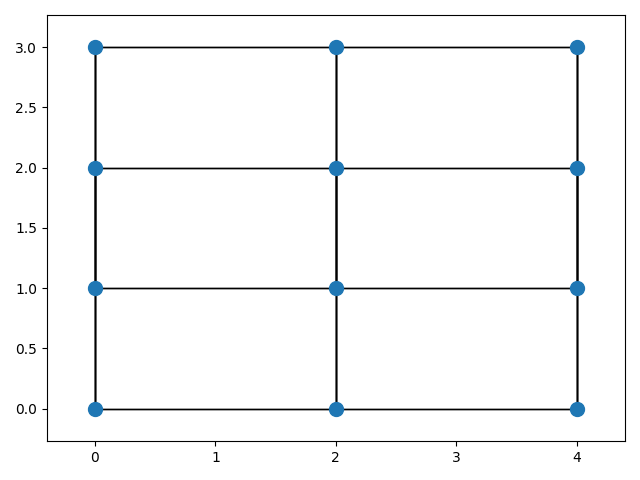
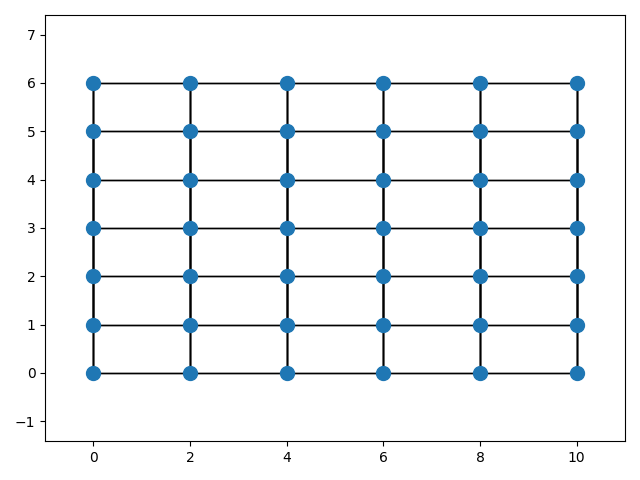
updated examples

diff --git a/examples/lattices.py b/examples/lattices.py
@@ -23,7 +23,7 @@ def plot_simple_rectangular():
     latt.add_atom()
     # Two distances are needed for all connections
     latt.add_connections(2)
-    latt.build((5, 3))
+    latt.build((10, 6))
 
     ax = latt.plot()
     fig = ax.get_figure()

diff --git a/README.md b/README.md
@@ -219,7 +219,7 @@ latt = Lattice([[2, 0], [0, 1]])
 latt.add_atom()
 # Two distances are needed for all connections
 latt.add_connections(2)
-latt.build((5, 3))
+latt.build((10, 6))
 
 latt.plot()
 plt.show()
